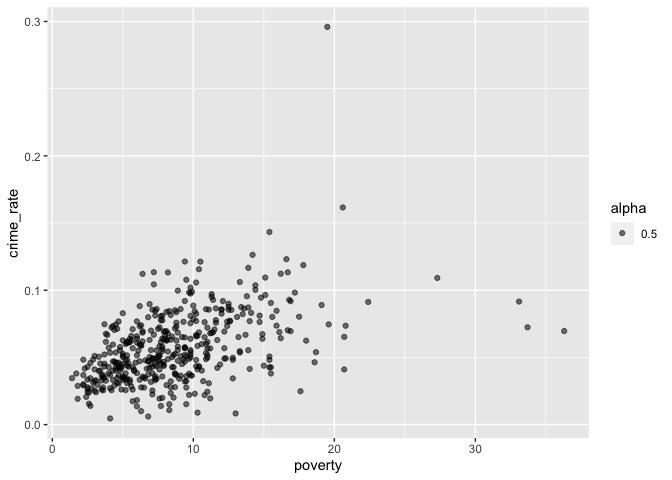
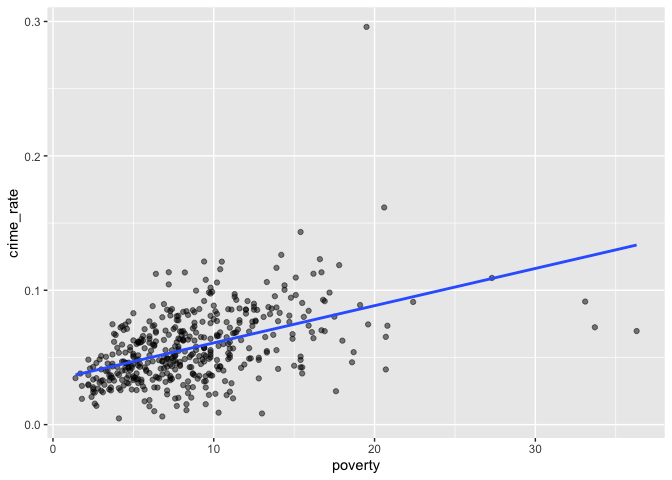
poverty vs crime rate plot

diff --git a/Yushan_Wang.md b/Yushan_Wang.md
@@ -44,32 +44,35 @@ cdi_data = read.csv("./data/cdi.csv") %>%
 poverty vs crime rate
 
 ``` r
-reg <- lm(crimes ~ poverty, data = cdi_data)
+reg <- lm(crime_rate ~ poverty, data = cdi_data)
 summary(reg)
 ```
 
     ## 
     ## Call:
-    ## lm(formula = crimes ~ poverty, data = cdi_data)
+    ## lm(formula = crime_rate ~ poverty, data = cdi_data)
     ## 
     ## Residuals:
-    ##    Min     1Q Median     3Q    Max 
-    ## -65035 -20362 -12640   1354 655904 
+    ##       Min        1Q    Median        3Q       Max 
+    ## -0.064008 -0.014578 -0.002561  0.013605  0.208853 
     ## 
     ## Coefficients:
-    ##             Estimate Std. Error t value Pr(>|t|)    
-    ## (Intercept)   9181.3     5825.7   1.576 0.115750    
-    ## poverty       2056.1      589.4   3.488 0.000535 ***
+    ##              Estimate Std. Error t value Pr(>|t|)    
+    ## (Intercept) 0.0331390  0.0024435   13.56   <2e-16 ***
+    ## poverty     0.0027690  0.0002472   11.20   <2e-16 ***
     ## ---
     ## Signif. codes:  0 '***' 0.001 '**' 0.01 '*' 0.05 '.' 0.1 ' ' 1
     ## 
-    ## Residual standard error: 57510 on 438 degrees of freedom
-    ## Multiple R-squared:  0.02703,    Adjusted R-squared:  0.02481 
-    ## F-statistic: 12.17 on 1 and 438 DF,  p-value: 0.0005354
+    ## Residual standard error: 0.02412 on 438 degrees of freedom
+    ## Multiple R-squared:  0.2226, Adjusted R-squared:  0.2209 
+    ## F-statistic: 125.4 on 1 and 438 DF,  p-value: < 2.2e-16
 
 ``` r
-cdi_data %>% ggplot() + 
-  geom_point(aes(x = poverty, y = crime_rate, alpha = 0.5))
+ggplot(data = cdi_data, aes(x = poverty, y = crime_rate)) + 
+  geom_point(alpha = 0.5) +
+  geom_smooth(method = "lm", se = FALSE)
 ```
+
+    ## `geom_smooth()` using formula 'y ~ x'
 
 ![](Yushan_Wang_files/figure-gfm/unnamed-chunk-4-1.png)<!-- -->
